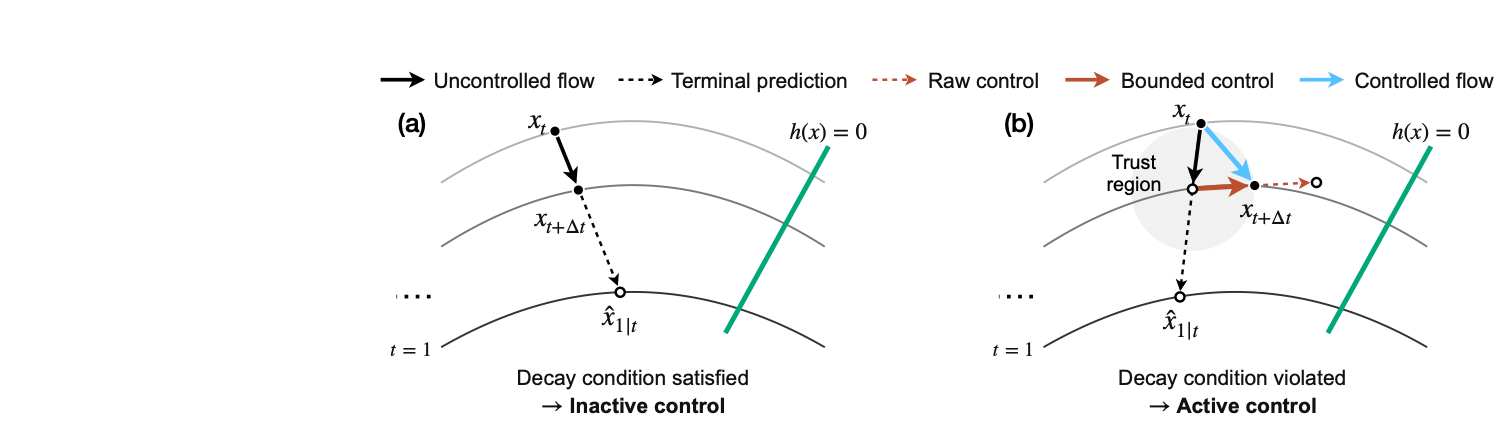
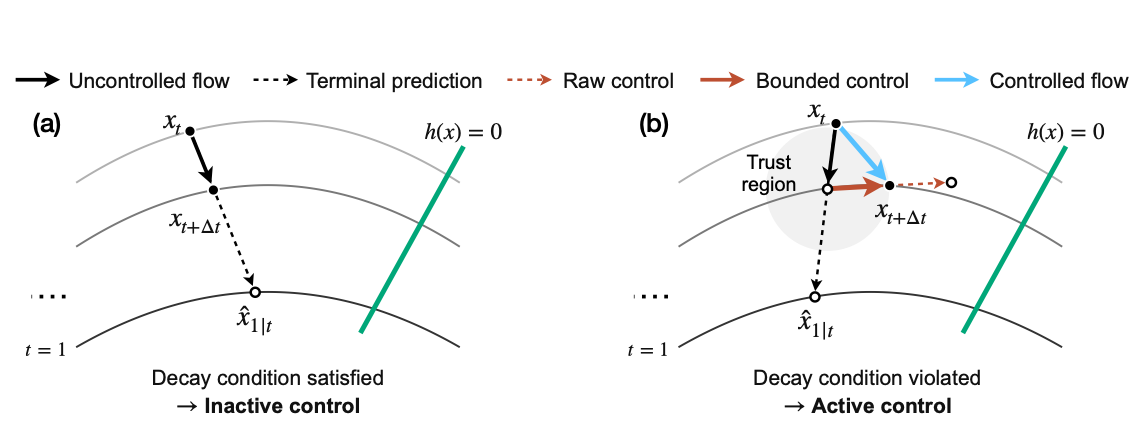
project page

diff --git a/assets/lyapuflow/css/lyapuflow.css b/assets/lyapuflow/css/lyapuflow.css
@@ -1,6 +1,6 @@
 :root { --primary-color: #176b70; --primary-hover: #104d51; --text-primary: #223438; --background-secondary: #f4f8f7; }
 body, .publication-title, .publication-authors { font-family: -apple-system, BlinkMacSystemFont, "Segoe UI", sans-serif !important; }
-body { line-height: 1.5; font-size: .97rem; }
+body { line-height: 1.5; font-size: 1rem; }
 .container.is-max-desktop { max-width: 1120px; }
 .publication-header .container.is-max-desktop { max-width: 960px; }
 #abstract .container.is-max-desktop,
@@ -8,7 +8,7 @@ body { line-height: 1.5; font-size: .97rem; }
 #scientific-results .container.is-max-desktop,
 #image-results .container.is-max-desktop,
 #citation .container.is-max-desktop { max-width: 960px; }
-.project-nav { max-width: 1120px; margin: auto; padding: 1.5rem; display: flex; justify-content: space-between; gap: 1rem; font-size: .97rem; }
+.project-nav { max-width: 1120px; margin: auto; padding: 1.5rem; display: flex; justify-content: space-between; gap: 1rem; font-size: 1rem; }
 .project-nav a { color: var(--text-secondary); }
 .project-nav div { display: flex; gap: 1.5rem; }
 .publication-header .hero-body { padding: 3.5rem 1.5rem 2rem; }
@@ -18,12 +18,12 @@ body { line-height: 1.5; font-size: .97rem; }
 .publication-hero-image { display: block; width: 100%; max-width: 290px; height: auto; margin-inline: auto; transform: scale(1); transition: transform .45s ease; }
 .publication-hero-image:hover { transform: scale(1.1); }
 .eyebrow { color: var(--primary-color); font-weight: 700; font-size: .78rem; letter-spacing: .14em; text-transform: uppercase; margin-bottom: 1.25rem; }
-.project-name, .paper-title { display: block; font-size: 2.2rem; line-height: 1.22; letter-spacing: -.035em; }
+.project-name, .paper-title { display: block; font-size: 2.2rem; line-height: 1.3; letter-spacing: -.035em; }
 .publication-title .project-name, .publication-title .paper-title { font-size: 2.1rem; }
 .project-name { color: var(--primary-color); }
 .publication-authors { margin-bottom: .8rem; font-size: 1.15rem !important; }
 .publication-hero-details { width: 100%; margin-top: 1.25rem; }
-.affiliations { color: #647174; line-height: 1.5; font-size: .97rem; }
+.affiliations { color: #647174; line-height: 1.5; font-size: 1.05rem; }
 .publication-links { margin-top: 1rem; }
 .publication-links .button { gap: .65rem; }
 .publication-links .button svg { display: inline-block; width: 18px; min-width: 18px; height: 18px; flex: 0 0 18px; visibility: visible; fill: none; stroke: #fff; stroke-width: 2.2; stroke-linecap: round; stroke-linejoin: round; }
@@ -36,15 +36,15 @@ body { line-height: 1.5; font-size: .97rem; }
 .section#citation { padding-block: 1.25rem; }
 .section h2.title.is-3 { font-size: 1.7rem; margin-bottom: 1rem; }
 #abstract { padding-top: 1.25rem; padding-bottom: 1.5rem; }
-.overview-copy { margin: 1.75rem auto 2.5rem; font-size: .97rem; line-height: 1.55; }
-.abstract-copy { margin: 1.75rem auto 0; font-size: .97rem; line-height: 1.55; }
+.overview-copy { margin: 1.75rem auto 2.5rem; font-size: 1rem; line-height: 1.55; }
+.abstract-copy { margin: 1.75rem auto 0; font-size: 1rem; line-height: 1.55; }
 .method-figure { width: 80%; margin: 1.5rem auto 0; }
 .method-figure img { display: block; width: 100%; height: auto; }
 .method-steps { display: grid; grid-template-columns: repeat(3, 1fr); gap: 2rem; }
 .method-steps article { border-top: 2px solid #c5dbd7; padding-top: 1rem; }
 .step-number { color: var(--primary-color); font-size: .8rem; font-weight: 700; }
 .method-steps h3 { font-size: 1.25rem; font-weight: 700; margin: .5rem 0; }
-.method-steps p, .result-intro, .result-item p { color: #59696c; font-size: .97rem; line-height: 1.5; }
+.method-steps p, .result-intro, .result-item p { color: #59696c; font-size: 1rem; line-height: 1.5; }
 a { color: var(--primary-color); }
 .result-intro { text-align: center; margin: 0 auto 1.75rem; }
 .result-item { margin-top: 2rem; }
@@ -71,7 +71,7 @@ pre { white-space: pre; overflow-x: auto; font-size: .85rem; }
 button:focus-visible { outline: 2px solid var(--primary-color); outline-offset: 4px; }
 @media (max-width: 600px) {
   .method-figure { width: 100%; }
-  .project-nav { font-size: .97rem; padding: 1rem; }
+  .project-nav { font-size: 1rem; padding: 1rem; }
   .project-nav div { gap: .8rem; }
   .publication-header .hero-body { padding-top: 2.5rem; }
   .project-name, .paper-title { font-size: 1.8rem; }
@@ -82,7 +82,7 @@ button:focus-visible { outline: 2px solid var(--primary-color); outline-offset: 
   .section { padding: 3rem 1.25rem; }
   .section h2.title.is-3 { font-size: 1.5rem; }
   .publication-authors { font-size: 1.15rem !important; }
-  .affiliations { font-size: .97rem; }
+  .affiliations { font-size: 1.05rem; }
 }
 @media (max-width: 950px) {
   .publication-hero-top { grid-template-columns: 1fr; gap: 1.5rem; }

diff --git a/_projects/lyapuflow.html b/_projects/lyapuflow.html
@@ -94,13 +94,13 @@ category: work
           <h2 class="title is-3 has-text-centered">Scientific inverse problems</h2>
           <p class="result-intro">LyapuFlow guides PDE solution generation for 1D heat, Burgers, and reaction–diffusion (RD) equations and 2D Navier–Stokes (NS), enforcing linear and nonlinear constraints such as initial conditions, local dynamics, and conservation laws.</p>
           <article class="result-item">
-            <p><strong>Guidance sensitivity.</strong> Unlike other samplers, which require task-specific tuning of the guidance step size, LyapuFlow can adapt relatively easily across tasks and models by adjusting its Lyapunov decay rate.</p>
+            <p><strong>Task adaptability through decay-rate tuning.</strong> Unlike other samplers, which require task-specific tuning of the guidance step size, LyapuFlow can adapt relatively easily across tasks and models by adjusting its Lyapunov decay rate.</p>
             <figure class="research-figure result-figure">
               <img src="{{ '/assets/lyapuflow/images/sensitivity-all.png' | relative_url }}" alt="Hyperparameter sensitivity across seven PDE samplers, including LyapuFlow and DPS." loading="lazy">
             </figure>
           </article>
           <article class="result-item">
-            <p><strong>1D Burgers.</strong> The top panel shows average solutions for a fixed initial-condition group, and the bottom panel shows pointwise absolute error to ground truth. Constraints include the initial condition, nonlinear local dynamics enforced with a Godunov update over the first five time steps, and mass balance.</p>
+            <p><strong>Higher sample fidelity while satisfying physical constraints.</strong> The top panel shows average solutions for a fixed initial-condition group, and the bottom panel shows pointwise absolute error to ground truth. Constraints include the initial condition, nonlinear local dynamics enforced with a Godunov update over the first five time steps, and mass balance.</p>
             <figure class="research-figure result-figure">
               <img src="{{ '/assets/lyapuflow/images/burgers.png' | relative_url }}" alt="Comparison of generated Burgers solutions and absolute errors across LyapuFlow and baseline methods." loading="lazy">
             </figure>
